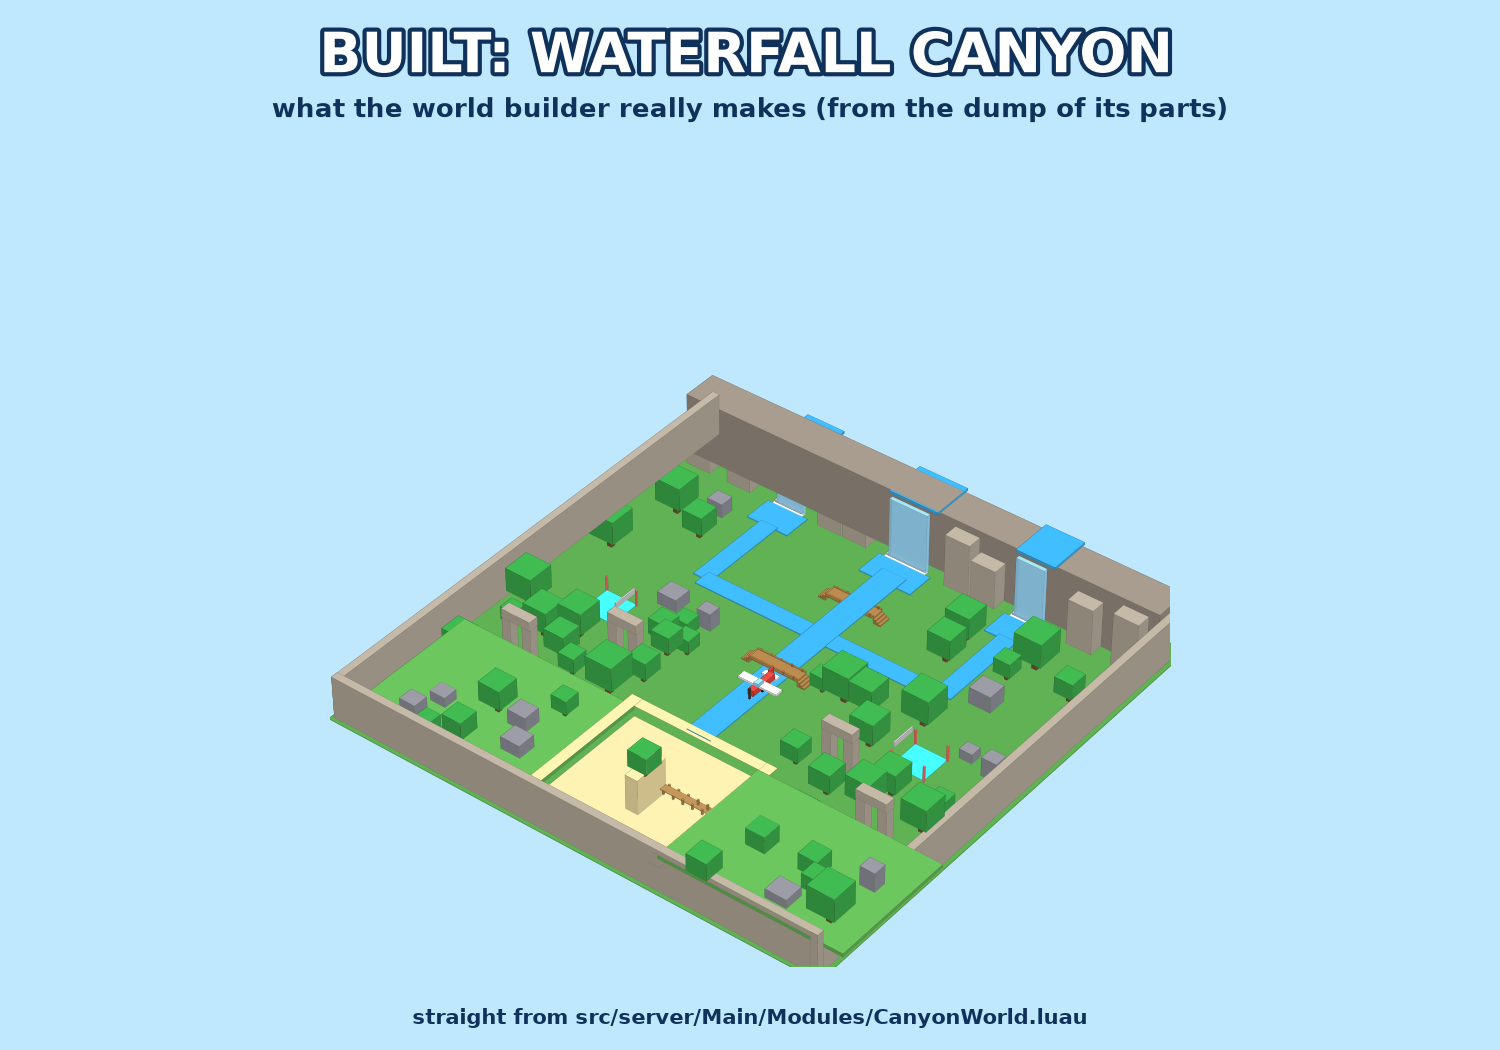
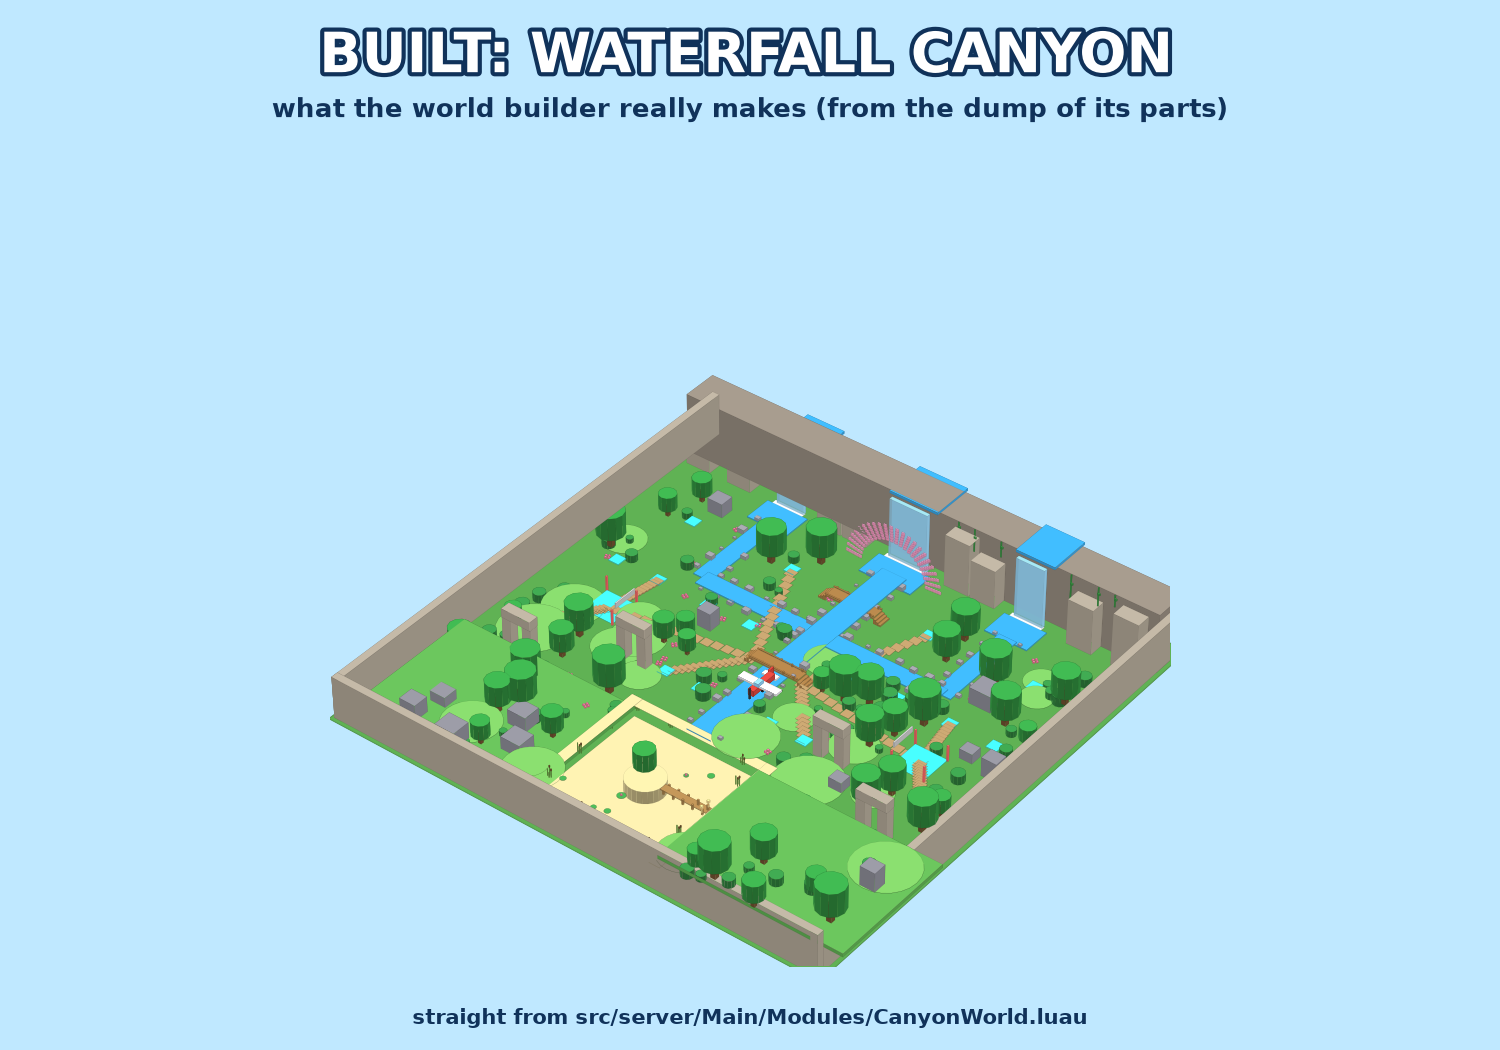
Richer map and lobby: dressing, rainbows, trophy, bunting, lanterns, fireflies
Claude-Session: https://claude.ai/code/session_019YN3vKzyRbMrwnjKmkykPt

Changed region(s): [[0.276, 0.4267, 0.736, 0.8838]]

diff --git a/figure-me-out/docs/maps/render_built_world.py b/figure-me-out/docs/maps/render_built_world.py
@@ -6,7 +6,7 @@ import map_concepts as mc
 
 def colour(name):
     n = name.lower()
-    table = [("waterfall", "#9bdcff"), ("foam", "#ffffff"), ("pool", "#3aaaeb"), ("river", "#3aaaeb"), ("stream", "#3aaaeb"), ("join", "#3aaaeb"),
+    table = [("rainbow", "#ff9ec8"), ("grasspatch", "#7cc864"), ("trail", "#b89868"), ("bush", "#3a9a4a"), ("flower", "#ff78a0"), ("stone", "#9a9aa2"), ("lilypad", "#46aa50"), ("reed", "#6ea046"), ("cattail", "#70502e"), ("strata", "#b0a08a"), ("vine", "#3c9646"), ("lantern", "#ffe296"), ("waterfall", "#9bdcff"), ("foam", "#ffffff"), ("pool", "#3aaaeb"), ("river", "#3aaaeb"), ("stream", "#3aaaeb"), ("join", "#3aaaeb"),
              ("falllip", "#3aaaeb"), ("lakebed", "#e8d9a0"), ("lakewater", "#4ab8f5"), ("shore", "#eedca0"), ("island", "#eedca0"), ("dock", "#b08850"),
              ("cliff", "#968c80"), ("buttress", "#b0a696"), ("wall", "#b0a696"), ("arch", "#b0a696"), ("boulder", "#8c8c96"), ("trunk", "#704f2f"),
              ("leaves", "#3aa84a"), ("ground", "#60b254"), ("bridge", "#a87c46"), ("body", "#d6453d"), ("wing", "#f5f5fa"), ("tailplane", "#f5f5fa"),
@@ -26,13 +26,26 @@ def main(src, out):
         name = f[1]; x, y, z, w, h, d = map(float, f[2:8])
         if abs(x) > 150 or abs(z) > 150 or w > 250 and h < 3 or w > 250 and d > 250:
             continue
-        if name in ("Hill", "FarGround", "Bubble"):
+        if name in ("Hill", "FarGround", "Bubble", "FireflyAnchor", "SparkAnchor", "SprayAnchor", "MistAnchor", "Trail"):
             continue
         if name == "Floor":
             continue
         alpha = 0.8 if "waterfall" in name.lower() else 1.0
-        sc.box(x, z, w, d, h, colour(name), y0=y - h / 2, alpha=alpha)
+        if name in ("GrassPatch", "LilyPad", "Island"):
+            sc.cyl(x, z, max(h, d) / 2, w, colour(name), y0=y - w / 2, n=24)
+        elif name == "RainbowBand":
+            sc.box(x, z, 1.6, 0.5, 1.6, colour(name), y0=y - 0.8, alpha=0.7)
+        elif name in ("Bush", "Leaves"):
+            sc.cyl(x, z, w / 2, h, colour(name), y0=y - h / 2, n=12)
+        else:
+            sc.box(x, z, w, d, h, colour(name), y0=y - h / 2, alpha=alpha)
         count += 1
+    # the dirt trails are turned boxes in the game (the dump has no rotation), so they are drawn from their end points
+    trails = [(-90, 0, -14, 12), (90, 0, 14, 12), (-14, 12, -40, 75), (14, 12, 40, 75), (-90, 0, -105, -20), (90, 0, 105, -20), (-90, 0, -85, 30), (90, 0, 85, 30), (-40, -20, -14, 12), (40, -20, 14, 12)]
+    for (x1, z1, x2, z2) in trails:
+        for k in range(14):
+            t = (k + 0.5) / 14
+            sc.box(x1 + (x2 - x1) * t, z1 + (z2 - z1) * t, 5, 5, 0.1, "#b89868", y0=0.05)
     print("boxes", count)
     mc.render(sc, out)
 

diff --git a/figure-me-out/docs/maps/render_lobby.py b/figure-me-out/docs/maps/render_lobby.py
@@ -3,14 +3,14 @@ import sys, os, math
 sys.path.insert(0, os.path.dirname(os.path.abspath(__file__)))
 import map_concepts as mc
 
-CYL = ("Grass", "Rock", "EdgeGlow", "Plaza", "FountainBasin", "FountainWater", "FountainColumn", "FountainBowl", "FlowerBed", "SkyIsle", "SkyIsleRock", "Island")
-BALL = ("Leaves", "Flower", "LampBulb", "BannerKnob", "Cloud")
+CYL = ("Mown", "Trophy", "PathLight", "Grass", "Rock", "EdgeGlow", "Plaza", "FountainBasin", "FountainWater", "FountainColumn", "FountainBowl", "FlowerBed", "SkyIsle", "SkyIsleRock", "Island")
+BALL = ("Leaves", "Flower", "LampBulb", "BannerKnob", "Cloud", "Flag", "PaperLantern")
 
 def colour(n):
     t = [("Grass", "#7ace5c"), ("EdgeGlow", "#5ad7ff"), ("Rock", "#968a7c"), ("SkyIsleRock", "#968a7c"), ("SkyIsle", "#7ace5c"), ("PlazaRing1", "#5ad7ff"), ("PlazaRing3", "#ffd63c"),
          ("PlazaRing", "#ece6d8"), ("Plaza", "#ece6d8"), ("FountainWater", "#6edcff"), ("Fountain", "#ece6d8"), ("Path", "#e2cea4"), ("FlowerBed", "#96704a"), ("Flower", "#ff78a0"),
          ("Bench", "#a07648"), ("LampPost", "#464c5c"), ("LampBulb", "#ffecaa"), ("Trunk", "#705030"), ("Leaves", "#3ca850"), ("Fall", "#9bdcff"), ("Banner", "#464c5c"), ("Title", "#166096"),
-         ("Status", "#0e1e40"), ("Board", "#166096"), ("HowTo", "#166096"), ("Cloud", "#ffffff"), ("Spawn", "#40f0ff")]
+         ("Status", "#0e1e40"), ("Board", "#166096"), ("HowTo", "#166096"), ("Cloud", "#ffffff"), ("Spawn", "#40f0ff"), ("Mown", "#84d668"), ("TrophyPedestal", "#ece6d8"), ("TrophyPlinth", "#d2c8b6"), ("Trophy", "#ffc83c"), ("PathLight", "#5ad7ff"), ("Flag", "#ff648c"), ("PaperLantern", "#ffd650"), ("RainbowBand", "#ff9ec8")]
     for k, v in t:
         if n.startswith(k):
             return v
@@ -25,7 +25,7 @@ def main(src, out):
         if len(f) < 10 or f[0] != "PART":
             continue
         name = f[1]; x, y, z, w, h, d = map(float, f[2:8])
-        if name in ("SparkleAnchor", "FountainSpout", "LobbySpawnLocation"):
+        if name in ("SparkleAnchor", "FountainSpout", "LobbySpawnLocation", "LanternString"):
             continue
         if not (-190 < x < 190 and 230 < z < 610):
             continue
@@ -34,6 +34,8 @@ def main(src, out):
         if base:
             r = max(h, d) / 2
             sc.cyl(x, z - 420, r, w, c, y0=y - w / 2, n=28, alpha=0.85 if "Water" in name else 1.0)
+        elif name == "RainbowBand":
+            sc.box(x, z - 420, 1.8, 0.6, 1.8, c, y0=y - 0.9, alpha=0.7)
         elif name == "Cloud":
             sc.cyl(x, z - 420, max(w, d) / 2, max(h, 2), c, y0=y - h / 2, n=20, alpha=0.8)
         elif any(name.startswith(b) for b in BALL):

diff --git a/figure-me-out/README.md b/figure-me-out/README.md
@@ -43,6 +43,7 @@ The arena is **Waterfall Canyon**: a tall cliff along one side with three waterf
 * **The river pushes you.** Wading in the river, the side streams, the pools or under a waterfall carries you the way the water runs (a waterfall shoves hardest). Switch the current off or change its strength with `Config.Water.PushScale`. Bridges and rocks are out of the water.
 * **Everything moves on your own screen.** The ripples on the water and the planes are animated by each player's computer from the server clock, so everybody sees the planes in the same place and it costs no network traffic. The planes are scenery: they can't be ridden, shot or hurt anyone.
 * **Bots know the map.** They walk between open spots and go round trees, rocks, arches and the lake.
+* **Dressing:** soft patches of lighter and darker grass, dirt trails between the bases, bridges and spawn areas, bushes, flower clusters, stones along the river banks, lily pads and reeds on the lake, moss bands and hanging vines on the cliff, lanterns on the dock, fireflies drifting over the grass and a rainbow over the middle waterfall. All of it is decoration that nobody can bump into.
 * The whole layout is plain data in `src/shared/Canyon.luau` (waterfall positions, river boxes, spawns, bases, trees...). The old city map ("Plaza Park") is still in the code: put `Config.Map.use("city")` instead of `Config.Map.use("canyon")` at the end of the map section in `Config.luau` to get it back.
 * `docs/maps/` has the picture of what the world builder really makes (`built_canyon.png`) next to the six other map ideas.
 
@@ -55,7 +56,7 @@ The arena is **Waterfall Canyon**: a tall cliff along one side with three waterf
 
 ## The lobby and the spawn pads
 
-The lobby is a floating garden island: stone plaza with a fountain, paths, benches, lamps, flower beds, trees, two small waterfalls spilling into the sky, a title banner, the winners board, a how-to board and a **big status screen** ("WAITING FOR PLAYERS 1 / 2", "NEXT: DEATHMATCH - starts in 8 s", "GET READY!", "MATCH IN PROGRESS - 7 alive"). The spawn pads in the arena (`Workspace.ArenaSpawns`) are **invisible and not solid** while you play; set `Config.Map.ShowSpawns = true` if you want to see them while moving them around in Studio. The code is in `src/server/Main/Modules/LobbyWorld.luau`; `docs/maps/lobby.png` is a picture of what it builds.
+The lobby is a floating garden island: stone plaza with a fountain, paths, benches, lamps, flower beds, trees, two small waterfalls spilling into the sky, a golden trophy, bunting between the lamps, floating paper lanterns, a rainbow behind the title banner, glowing lights along the paths, mown stripes in the grass, a title banner, the winners board, a how-to board and a **big status screen** ("WAITING FOR PLAYERS 1 / 2", "NEXT: DEATHMATCH - starts in 8 s", "GET READY!", "MATCH IN PROGRESS - 7 alive"). The spawn pads in the arena (`Workspace.ArenaSpawns`) are **invisible and not solid** while you play; set `Config.Map.ShowSpawns = true` if you want to see them while moving them around in Studio. The code is in `src/server/Main/Modules/LobbyWorld.luau`; `docs/maps/lobby.png` is a picture of what it builds.
 
 ## Quick-and-simple mode (the default)
 
